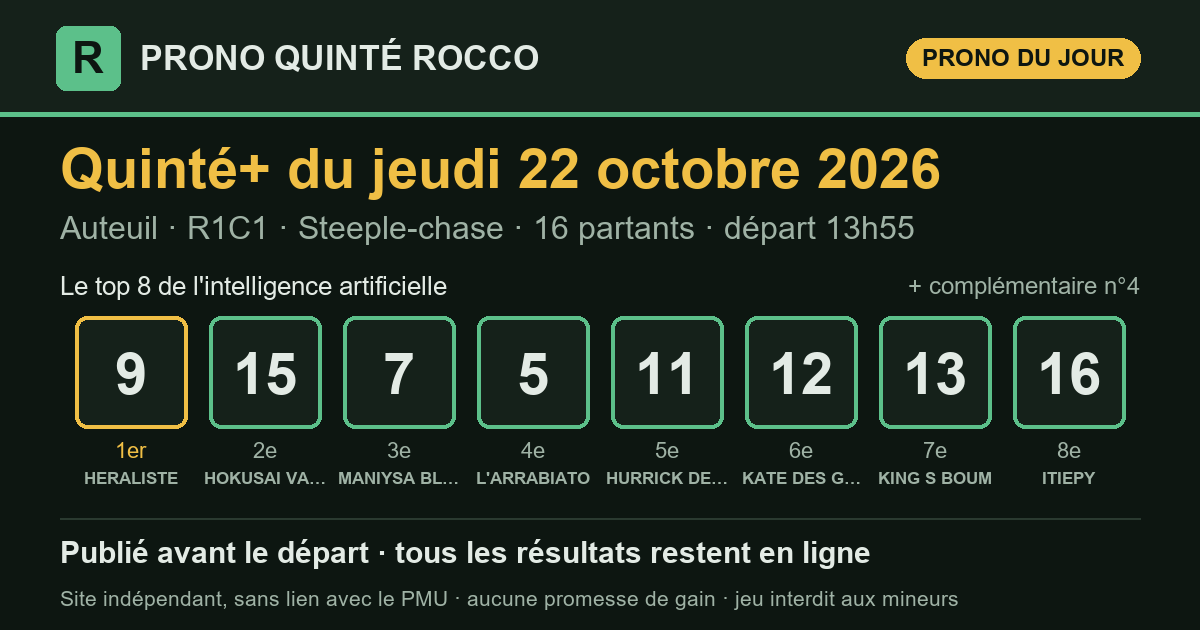
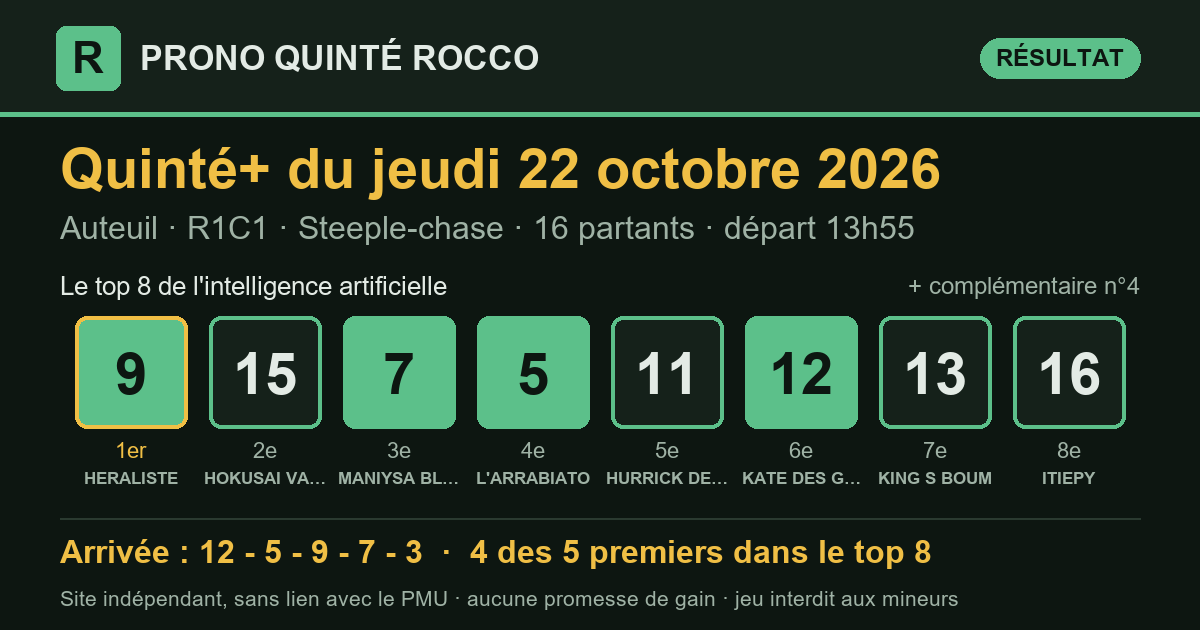
Prono Quinté+ 2026-10-22 Auteuil R1C1 — publié le 22/10/2026 14:13 (heure de Paris)

diff --git a/partants.html b/partants.html
@@ -3,7 +3,7 @@
 <head>
 <meta charset="utf-8">
 <meta name="viewport" content="width=device-width, initial-scale=1, viewport-fit=cover">
-<title>Partants du Quinté+ du jeudi 22 octobre 2026 — Prono Quinté Rocco</title>
+<title>Partants du Quinté+ du vendredi 23 octobre 2026 — Prono Quinté Rocco</title>
 <meta name="description" content="Les partants du prochain Quinté+ (programme officiel du PMU), avec le rang du prono IA et les liens vers les pronostics de la presse.">
 <link rel="canonical" href="https://prono-quinte-rocco.fr/partants.html">
 <link rel="stylesheet" href="style.css?v=3c55eb2c">
@@ -13,7 +13,7 @@
 <meta property="og:site_name" content="Prono Quinté Rocco">
 <meta property="og:locale" content="fr_FR">
 <meta property="og:type" content="website">
-<meta property="og:title" content="Partants du Quinté+ du jeudi 22 octobre 2026 — Prono Quinté Rocco">
+<meta property="og:title" content="Partants du Quinté+ du vendredi 23 octobre 2026 — Prono Quinté Rocco">
 <meta property="og:description" content="Les partants du prochain Quinté+ (programme officiel du PMU), avec le rang du prono IA et les liens vers les pronostics de la presse.">
 <meta property="og:url" content="https://prono-quinte-rocco.fr/partants.html">
 <meta name="twitter:card" content="summary">
@@ -29,100 +29,110 @@
   <p class="surtitre">Programme officiel du PMU</p>
   <h1>Les partants du prochain Quinté+</h1>
   <div class="fiche-course">
-    <p class="fiche-date">Jeudi 22 octobre 2026</p>
-    <div class="fiche-rc"><span class="pastille" title="Réunion 1">R1</span><span class="pastille" title="Course 1">C1</span><span class="fiche-nom">Prix Andre Adele</span></div>
-    <p class="meta">Auteuil · Obstacle · 3 600 m · 16 partants</p>
-    <p class="fiche-depart">Départ <b>13:55</b> <span>heure de Paris</span></p>
+    <p class="fiche-date">Vendredi 23 octobre 2026</p>
+    <div class="fiche-rc"><span class="pastille" title="Réunion 1">R1</span><span class="pastille" title="Course 4">C4</span><span class="fiche-nom">Prix Orionis</span></div>
+    <p class="meta">Vincennes · Trot_attele · 2 850 m · 18 partants</p>
+    <p class="fiche-depart">Départ <b>20:15</b> <span>heure de Paris</span></p>
   </div>
   <p class="surtitre">Les pronostics ailleurs sur le web</p>
-  <div class="liens"><a class="lien-ext" href="https://www.turfoo.fr/programmes-courses/261022/reunion1-auteuil/course1-prix-andre-adele/pronostics-presse/" rel="noopener" target="_blank"><b>Les pronostics de la presse →</b><span>sur Turfoo (site extérieur)</span></a><a class="lien-ext" href="https://www.geny.com/programme/2026-10-22" rel="noopener" target="_blank"><b>Partants et pronostics →</b><span>programme du jour sur Geny (site extérieur)</span></a></div>
+  <div class="liens"><a class="lien-ext" href="https://www.turfoo.fr/programmes-courses/261023/reunion1-vincennes/course4-prix-orionis/pronostics-presse/" rel="noopener" target="_blank"><b>Les pronostics de la presse →</b><span>sur Turfoo (site extérieur)</span></a><a class="lien-ext" href="https://www.geny.com/programme/2026-10-23" rel="noopener" target="_blank"><b>Partants et pronostics →</b><span>programme du jour sur Geny (site extérieur)</span></a></div>
   <div class="liste-boite"><table class="liste-partants">
     <thead><tr><th>N°</th><th>Cheval</th><th class="cote"><span class="long">Cote du matin</span><span class="court">Cote</span></th>
     <th class="ia"><span class="long">Prono IA</span><span class="court">IA</span></th></tr></thead>
     <tbody><tr>
   <td><span class="tapis petit">1</span></td>
-  <td><span class="cheval">KING PINEAU</span><span class="sous">D.THOMAS · G.JUILLET</span></td>
-  <td class="cote num">19,0</td>
+  <td><span class="cheval">JARDYLAND</span><span class="sous">L. JUBLOT · L. JUBLOT</span></td>
+  <td class="cote num">—</td>
   <td class="ia">—</td>
 </tr><tr>
   <td><span class="tapis petit">2</span></td>
-  <td><span class="cheval">JUVAL</span><span class="sous">Q.DEFONTAINE · P.QUINTON (S)</span></td>
-  <td class="cote num">17,0</td>
+  <td><span class="cheval">GITANO JACK</span><span class="sous">F. NIVARD · G.M. BERNIER</span></td>
+  <td class="cote num">—</td>
   <td class="ia">—</td>
 </tr><tr>
   <td><span class="tapis petit">3</span></td>
-  <td><span class="cheval">KEASY STORM</span><span class="sous">B.LE CLERC · A.LE CLERC (S)</span></td>
-  <td class="cote num">29,0</td>
+  <td><span class="cheval">IROISE DE MADKER</span><span class="sous">F. LAGADEUC · CH.A. MALLET</span></td>
+  <td class="cote num">—</td>
   <td class="ia">—</td>
 </tr><tr>
   <td><span class="tapis petit">4</span></td>
-  <td><span class="cheval">LAKADAME</span><span class="sous">THO .JOURNIAC · J.DELAUNAY (S)</span></td>
-  <td class="cote num">14,0</td>
-  <td class="ia"><span class="etat place">compl.</span></td>
+  <td><span class="cheval">GENERAL DE CONNEE</span><span class="sous">D. THOMAIN · CH.A. MALLET</span></td>
+  <td class="cote num">—</td>
+  <td class="ia">—</td>
 </tr><tr>
   <td><span class="tapis petit">5</span></td>
-  <td><span class="cheval">L&#x27;ARRABIATO</span><span class="sous">G.RICHARD · CHAILLE-CHAILLE &amp; PAMART</span></td>
-  <td class="cote num">8,2</td>
-  <td class="ia"><span class="etat place">4<sup>e</sup></span></td>
+  <td><span class="cheval">IN RACE LORRAINE</span><span class="sous">G.A. POU POU · G.A. POU POU</span></td>
+  <td class="cote num">—</td>
+  <td class="ia">—</td>
 </tr><tr>
   <td><span class="tapis petit">6</span></td>
-  <td><span class="cheval">DREAM DU LEMO</span><span class="sous">T.BEAURAIN · F.FOUCHER</span></td>
-  <td class="cote num">16,0</td>
+  <td><span class="cheval">JOKER GEMA</span><span class="sous">B. ROCHARD · M. SASSIER</span></td>
+  <td class="cote num">—</td>
   <td class="ia">—</td>
 </tr><tr>
   <td><span class="tapis petit">7</span></td>
-  <td><span class="cheval">MANIYSA BLEUE</span><span class="sous">K.NABET · M.PITART</span></td>
-  <td class="cote num">8,9</td>
-  <td class="ia"><span class="etat place">3<sup>e</sup></span></td>
+  <td><span class="cheval">IENISSE DE BARBRAY</span><span class="sous">E. RAFFIN · CH.A. MALLET</span></td>
+  <td class="cote num">—</td>
+  <td class="ia">—</td>
 </tr><tr>
   <td><span class="tapis petit">8</span></td>
-  <td><span class="cheval">ELIAN</span><span class="sous">G.RE · CHAILLE-CHAILLE &amp; PAMART</span></td>
-  <td class="cote num">20,0</td>
+  <td><span class="cheval">HALFAN SPEED</span><span class="sous">P.PH. PLOQUIN · P. LELIEVRE</span></td>
+  <td class="cote num">—</td>
   <td class="ia">—</td>
 </tr><tr>
   <td><span class="tapis petit">9</span></td>
-  <td><span class="cheval">HERALISTE</span><span class="sous">G.MASURE · CHAILLE-CHAILLE &amp; PAMART</span></td>
-  <td class="cote num">5,5</td>
-  <td class="ia"><span class="etat place">1<sup>er</sup></span></td>
+  <td><span class="cheval">JEWEL DE LA COTE</span><span class="sous">G. GELORMINI · S. GUARATO</span></td>
+  <td class="cote num">—</td>
+  <td class="ia">—</td>
 </tr><tr>
   <td><span class="tapis petit">10</span></td>
-  <td><span class="cheval">TUTTI BELLA</span><span class="sous">G.MEUNIER · MME I.PACAULT</span></td>
-  <td class="cote num">53,0</td>
+  <td><span class="cheval">JADOU DU LUPIN</span><span class="sous">A. WIELS · J.P. MARMION</span></td>
+  <td class="cote num">—</td>
   <td class="ia">—</td>
 </tr><tr>
   <td><span class="tapis petit">11</span></td>
-  <td><span class="cheval">HURRICK DES OBEAUX</span><span class="sous">O.JOUIN · N.DEVILDER</span></td>
-  <td class="cote num">13,0</td>
-  <td class="ia"><span class="etat place">5<sup>e</sup></span></td>
+  <td><span class="cheval">JAZZ DE PADD</span><span class="sous">A. ABRIVARD · M. ABRIVARD</span></td>
+  <td class="cote num">—</td>
+  <td class="ia">—</td>
 </tr><tr>
   <td><span class="tapis petit">12</span></td>
-  <td><span class="cheval">KATE DES GENIEVRES</span><span class="sous">L.BRECHET · Y.FOUIN (S)</span></td>
-  <td class="cote num">16,0</td>
-  <td class="ia"><span class="etat place">6<sup>e</sup></span></td>
+  <td><span class="cheval">IN LOVE REGLISSE</span><span class="sous">E. DE JESUS · D. DE JESUS REIS</span></td>
+  <td class="cote num">—</td>
+  <td class="ia">—</td>
 </tr><tr>
   <td><span class="tapis petit">13</span></td>
-  <td><span class="cheval">KING S BOUM</span><span class="sous">T.CHEVILLARD · F.FOUCHER</span></td>
-  <td class="cote num">21,0</td>
-  <td class="ia"><span class="etat place">7<sup>e</sup></span></td>
+  <td><span class="cheval">JIBI DU FRUITIER</span><span class="sous">M. MOTTIER · CH.M. BRUNEAU</span></td>
+  <td class="cote num">—</td>
+  <td class="ia">—</td>
 </tr><tr>
   <td><span class="tapis petit">14</span></td>
-  <td><span class="cheval">FILIPPINO</span><span class="sous">J.PHELIPPE · GAB.LEENDERS (S)</span></td>
-  <td class="cote num">14,0</td>
+  <td><span class="cheval">IOUPY TOLLEVILLE</span><span class="sous">F. OUVRIE · E. SZIRMAY</span></td>
+  <td class="cote num">—</td>
   <td class="ia">—</td>
 </tr><tr>
   <td><span class="tapis petit">15</span></td>
-  <td><span class="cheval">HOKUSAI VALLIS</span><span class="sous">F.GILES · H.MERIENNE (S)</span></td>
-  <td class="cote num">9,4</td>
-  <td class="ia"><span class="etat place">2<sup>e</sup></span></td>
+  <td><span class="cheval">JUST DU CHATELET</span><span class="sous">D. BONNE · A. RANDON</span></td>
+  <td class="cote num">—</td>
+  <td class="ia">—</td>
 </tr><tr>
   <td><span class="tapis petit">16</span></td>
-  <td><span class="cheval">ITIEPY</span><span class="sous">M.CHAILLOLEAU · AS.PACAULT (S)</span></td>
-  <td class="cote num">16,0</td>
-  <td class="ia"><span class="etat place">8<sup>e</sup></span></td>
+  <td><span class="cheval">HINDEN</span><span class="sous">A. BARRIER · P.J. CORDEAU</span></td>
+  <td class="cote num">—</td>
+  <td class="ia">—</td>
+</tr><tr>
+  <td><span class="tapis petit">17</span></td>
+  <td><span class="cheval">IVOIRE DAIRPET</span><span class="sous">CEDRIC TERRY · J.F. POPOT</span></td>
+  <td class="cote num">—</td>
+  <td class="ia">—</td>
+</tr><tr>
+  <td><span class="tapis petit">18</span></td>
+  <td><span class="cheval">JEZABELLE BIE</span><span class="sous">M. IZZO · M. IZZO</span></td>
+  <td class="cote num">—</td>
+  <td class="ia">—</td>
 </tr></tbody>
   </table></div>
-  <p class="meta">Le rang du prono IA est celui publié sur ce site. Sous chaque cheval : jockey · entraîneur. Partants et cotes : programme
-  officiel du PMU, lu le 22/10 à 10:40 (heure de Paris). NP = non-partant.</p>
+  <p class="meta">Le prono IA de cette course sera publié le matin de la course, avant le départ. Sous chaque cheval : driver · entraîneur. Partants et cotes : programme
+  officiel du PMU, lu le 22/10 à 14:13 (heure de Paris). NP = non-partant.</p>
 </section>
 </main>
 <footer class="pied">

diff --git a/index.html b/index.html
@@ -16,7 +16,7 @@
 <meta property="og:title" content="Pronostic Quinté+ du jeudi 22 octobre 2026 — Prono Quinté Rocco">
 <meta property="og:description" content="Le pronostic du Quinté+ par intelligence artificielle, publié avant le départ, avec tous les résultats et le rendement réel.">
 <meta property="og:url" content="https://prono-quinte-rocco.fr/">
-<meta property="og:image" content="https://prono-quinte-rocco.fr/partage/2026-10-22.png?v=9750befb">
+<meta property="og:image" content="https://prono-quinte-rocco.fr/partage/2026-10-22.png?v=4a9a731e">
 <meta property="og:image:type" content="image/png">
 <meta property="og:image:width" content="1200">
 <meta property="og:image:height" content="630">
@@ -31,15 +31,15 @@
 </header>
 <main>
 <section class="une" aria-labelledby="t-jour">
-  <p class="surtitre">Quinté+ du jour</p>
+  <p class="surtitre">Dernier Quinté+</p>
   <h1 id="t-jour">Le prono du Quinté+, résultats compris</h1>
   <p class="chapo">Chaque matin, une intelligence artificielle classe les partants du
   Quinté+. Le classement est publié avant le départ, puis comparé à l'arrivée
   officielle. Tous les résultats restent en ligne, les bons comme les mauvais.</p>
   <article class="carte-course">
-  <div class="tete"><h2>Jeudi 22 octobre 2026</h2><span class="etat attente">arrivée en attente</span></div>
+  <div class="tete"><h2>Jeudi 22 octobre 2026</h2><span class="etat place">4 des 5 premiers dans le top 8</span></div>
   <p class="meta">Auteuil · <strong>R1C1</strong> · Steeple-chase · 16 partants · lisibilité <span class="note" aria-label="note 2 sur 5"><i class="on"></i><i class="on"></i><i class=""></i><i class=""></i><i class=""></i></span> 2/5</p>
-  <ol class="partants" aria-label="Classement du prono"><li><span class="rang">1<sup>er</sup></span><span class="tapis ">9</span><span class="nom">HERALISTE</span></li><li><span class="rang">2<sup>e</sup></span><span class="tapis ">15</span><span class="nom">HOKUSAI VALLIS</span></li><li><span class="rang">3<sup>e</sup></span><span class="tapis ">7</span><span class="nom">MANIYSA BLEUE</span></li><li><span class="rang">4<sup>e</sup></span><span class="tapis ">5</span><span class="nom">L&#x27;ARRABIATO</span></li><li><span class="rang">5<sup>e</sup></span><span class="tapis ">11</span><span class="nom">HURRICK DES OBEAUX</span></li><li><span class="rang">6<sup>e</sup></span><span class="tapis ">12</span><span class="nom">KATE DES GENIEVRES</span></li><li><span class="rang">7<sup>e</sup></span><span class="tapis ">13</span><span class="nom">KING S BOUM</span></li><li><span class="rang">8<sup>e</sup></span><span class="tapis ">16</span><span class="nom">ITIEPY</span></li><li><span class="rang">compl.</span><span class="tapis creux">4</span><span class="nom">LAKADAME</span></li></ol>
+  <ol class="partants" aria-label="Classement du prono"><li><span class="rang">1<sup>er</sup></span><span class="tapis plein">9</span><span class="nom">HERALISTE</span></li><li><span class="rang">2<sup>e</sup></span><span class="tapis ">15</span><span class="nom">HOKUSAI VALLIS</span></li><li><span class="rang">3<sup>e</sup></span><span class="tapis plein">7</span><span class="nom">MANIYSA BLEUE</span></li><li><span class="rang">4<sup>e</sup></span><span class="tapis plein">5</span><span class="nom">L&#x27;ARRABIATO</span></li><li><span class="rang">5<sup>e</sup></span><span class="tapis ">11</span><span class="nom">HURRICK DES OBEAUX</span></li><li><span class="rang">6<sup>e</sup></span><span class="tapis plein">12</span><span class="nom">KATE DES GENIEVRES</span></li><li><span class="rang">7<sup>e</sup></span><span class="tapis ">13</span><span class="nom">KING S BOUM</span></li><li><span class="rang">8<sup>e</sup></span><span class="tapis ">16</span><span class="nom">ITIEPY</span></li><li><span class="rang">compl.</span><span class="tapis creux">4</span><span class="nom">LAKADAME</span></li></ol>
   <div class="pied-carte"><span>Analysé le 22/10 à 10:37 · en ligne le 22/10 à 10:40 · départ à 13:55 (heure de Paris)</span><span><a href="quinte/2026-10-22.html">Détail de la course</a></span></div>
 </article>
   <div class="legende"><span><span class="tapis plein petit">4</span> numéro dans les 5 premiers</span>
@@ -62,7 +62,7 @@
 </section>
 <section class="bilan" aria-labelledby="t-bilan">
   <h2 id="t-bilan">Le bilan depuis le 8 septembre 2026</h2>
-  <div class="tableau chiffres"><div class="case"><span class="gros ">75 %</span><span class="lib">des arrivants trouvés dans le top 8</span><span class="ref">un top 8 tiré au hasard : 51 %</span></div><div class="case"><span class="gros ">86 %</span><span class="lib">des gagnants présents dans le top 8</span><span class="ref"></span></div><div class="case"><span class="gros ">51 %</span><span class="lib">1er du prono placé</span><span class="ref">sur 43 Quintés</span></div><div class="case"><span class="gros perte">0,93 €</span><span class="lib">rendus pour 1 € joué placé sur le 1er</span><span class="ref">rapports officiels PMU</span></div><div class="case"><span class="gros perte">0,50 €</span><span class="lib">rendus pour 1 € joué en Quinté+ combiné top 8</span><span class="ref">56 combinaisons, rapports PMU.fr, sur 43 Quintés</span></div></div>
+  <div class="tableau chiffres"><div class="case"><span class="gros ">75 %</span><span class="lib">des arrivants trouvés dans le top 8</span><span class="ref">un top 8 tiré au hasard : 51 %</span></div><div class="case"><span class="gros ">86 %</span><span class="lib">des gagnants présents dans le top 8</span><span class="ref"></span></div><div class="case"><span class="gros ">51 %</span><span class="lib">1er du prono placé</span><span class="ref">sur 43 Quintés</span></div><div class="case"><span class="gros perte">0,93 €</span><span class="lib">rendus pour 1 € joué placé sur le 1er</span><span class="ref">rapports officiels PMU</span></div><div class="case"><span class="gros perte">0,51 €</span><span class="lib">rendus pour 1 € joué en Quinté+ combiné top 8</span><span class="ref">56 combinaisons, rapports PMU.fr, sur 44 Quintés</span></div></div>
   <p class="avertissement">Moins de 1 € rendu pour 1 € joué : suivre ce prono à la lettre fait <strong>perdre de l'argent</strong> sur cette période. Il sert à analyser une course, pas à promettre un gain.</p>
 </section>
 </main>

diff --git a/quinte/2026-10-22.html b/quinte/2026-10-22.html
@@ -16,7 +16,7 @@
 <meta property="og:title" content="Pronostic Quinté+ du jeudi 22 octobre 2026 à Auteuil — Prono Quinté Rocco">
 <meta property="og:description" content="Prono Quinté+ du jeudi 22 octobre 2026 (Auteuil) : top 8, arrivée officielle et rapports PMU.fr.">
 <meta property="og:url" content="https://prono-quinte-rocco.fr/quinte/2026-10-22.html">
-<meta property="og:image" content="https://prono-quinte-rocco.fr/partage/2026-10-22.png?v=9750befb">
+<meta property="og:image" content="https://prono-quinte-rocco.fr/partage/2026-10-22.png?v=4a9a731e">
 <meta property="og:image:type" content="image/png">
 <meta property="og:image:width" content="1200">
 <meta property="og:image:height" content="630">
@@ -35,11 +35,19 @@
   <h1>Pronostic Quinté+ du jeudi 22 octobre 2026</h1>
   <p class="chapo">Auteuil · R1C1 · Steeple-chase · 16 partants</p>
   <article class="carte-course">
-  <div class="tete"><h2>Le prono : top 8 et complémentaire</h2><span class="etat attente">arrivée en attente</span></div>
+  <div class="tete"><h2>Le prono : top 8 et complémentaire</h2><span class="etat place">4 des 5 premiers dans le top 8</span></div>
   <p class="meta">Auteuil · <strong>R1C1</strong> · Steeple-chase · 16 partants · lisibilité <span class="note" aria-label="note 2 sur 5"><i class="on"></i><i class="on"></i><i class=""></i><i class=""></i><i class=""></i></span> 2/5</p>
-  <ol class="partants" aria-label="Classement du prono"><li><span class="rang">1<sup>er</sup></span><span class="tapis ">9</span><span class="nom">HERALISTE</span></li><li><span class="rang">2<sup>e</sup></span><span class="tapis ">15</span><span class="nom">HOKUSAI VALLIS</span></li><li><span class="rang">3<sup>e</sup></span><span class="tapis ">7</span><span class="nom">MANIYSA BLEUE</span></li><li><span class="rang">4<sup>e</sup></span><span class="tapis ">5</span><span class="nom">L&#x27;ARRABIATO</span></li><li><span class="rang">5<sup>e</sup></span><span class="tapis ">11</span><span class="nom">HURRICK DES OBEAUX</span></li><li><span class="rang">6<sup>e</sup></span><span class="tapis ">12</span><span class="nom">KATE DES GENIEVRES</span></li><li><span class="rang">7<sup>e</sup></span><span class="tapis ">13</span><span class="nom">KING S BOUM</span></li><li><span class="rang">8<sup>e</sup></span><span class="tapis ">16</span><span class="nom">ITIEPY</span></li><li><span class="rang">compl.</span><span class="tapis creux">4</span><span class="nom">LAKADAME</span></li></ol>
+  <ol class="partants" aria-label="Classement du prono"><li><span class="rang">1<sup>er</sup></span><span class="tapis plein">9</span><span class="nom">HERALISTE</span></li><li><span class="rang">2<sup>e</sup></span><span class="tapis ">15</span><span class="nom">HOKUSAI VALLIS</span></li><li><span class="rang">3<sup>e</sup></span><span class="tapis plein">7</span><span class="nom">MANIYSA BLEUE</span></li><li><span class="rang">4<sup>e</sup></span><span class="tapis plein">5</span><span class="nom">L&#x27;ARRABIATO</span></li><li><span class="rang">5<sup>e</sup></span><span class="tapis ">11</span><span class="nom">HURRICK DES OBEAUX</span></li><li><span class="rang">6<sup>e</sup></span><span class="tapis plein">12</span><span class="nom">KATE DES GENIEVRES</span></li><li><span class="rang">7<sup>e</sup></span><span class="tapis ">13</span><span class="nom">KING S BOUM</span></li><li><span class="rang">8<sup>e</sup></span><span class="tapis ">16</span><span class="nom">ITIEPY</span></li><li><span class="rang">compl.</span><span class="tapis creux">4</span><span class="nom">LAKADAME</span></li></ol>
   <div class="pied-carte"><span>Analysé le 22/10 à 10:37 · en ligne le 22/10 à 10:40 · départ à 13:55 (heure de Paris)</span><span></span></div>
 </article>
+<section class="carte-course" aria-labelledby="t-arr">
+  <div class="tete"><h2 id="t-arr">Arrivée officielle</h2></div>
+  <div class="rangee"><span class="tapis plein" title="1er">12</span><span class="tapis plein" title="2e">5</span><span class="tapis plein" title="3e">9</span><span class="tapis plein" title="4e">7</span><span class="tapis creux" title="5e">3</span></div>
+  <div class="deux">
+    <div><h3>Ce qu'aurait rendu le prono</h3><dl class="kv"><dt>1 € placé sur le 1er (n°9)</dt><dd>rapport manquant</dd><dt>1 € gagnant sur le 1er</dt><dd>rapport manquant</dd><dt>Quinté+ combiné top 8 (mise 112 €)</dt><dd>81,20 €</dd><dt>dont</dt><dd>Bonus 4sur5 × 4, Bonus 3 × 6</dd></dl></div>
+    <div><h3>Rapports officiels</h3><dl class="kv"><dt>e-Quinté+ Désordre (2 €)</dt><dd>929,80 €</dd><dt>e-Bonus 4sur5 (2 €)</dt><dd>9,20 €</dd><dt>e-Bonus 3 (2 €)</dt><dd>7,40 €</dd></dl></div>
+  </div>
+</section>
 </section>
 </main>
 <footer class="pied">

diff --git a/resultats.html b/resultats.html
@@ -39,8 +39,8 @@
     <tbody><tr>
   <td class="c-date"><a href="quinte/2026-10-22.html">22/10</a></td>
   <td class="c-course">Auteuil<br><span class="meta">R1C1 · Steeple-chase</span></td>
-  <td data-label="Top 8 du prono"><div class="rangee"><span class="tapis petit">9</span><span class="tapis petit">15</span><span class="tapis petit">7</span><span class="tapis petit">5</span><span class="tapis petit">11</span><span class="tapis petit">12</span><span class="tapis petit">13</span><span class="tapis petit">16</span></div></td><td data-label="Arrivée"><span class="etat attente">en attente</span></td>
-  <td class="num" data-label="Trouvés">—</td><td data-label="1er du prono"><span class="etat attente">—</span></td><td class="mont" data-label="Quinté+ top 8 (mise 112 €)">—</td>
+  <td data-label="Top 8 du prono"><div class="rangee"><span class="tapis plein petit">9</span><span class="tapis petit">15</span><span class="tapis plein petit">7</span><span class="tapis plein petit">5</span><span class="tapis petit">11</span><span class="tapis plein petit">12</span><span class="tapis petit">13</span><span class="tapis petit">16</span></div></td><td data-label="Arrivée"><div class="rangee"><span class="tapis plein petit" title="1er">12</span><span class="tapis plein petit" title="2e">5</span><span class="tapis plein petit" title="3e">9</span><span class="tapis plein petit" title="4e">7</span><span class="tapis creux petit" title="5e">3</span></div></td>
+  <td class="num" data-label="Trouvés">4/5</td><td data-label="1er du prono"><span class="etat place">placé</span></td><td class="mont perte" data-label="Quinté+ top 8 (mise 112 €)">81,20 €</td>
 </tr><tr>
   <td class="c-date"><a href="quinte/2026-10-21.html">21/10</a></td>
   <td class="c-course">Toulouse<br><span class="meta">R1C1 · Attelé</span></td>
@@ -261,7 +261,7 @@
 </section>
 <section class="bilan" aria-labelledby="t-bilan">
   <h2 id="t-bilan">Le bilan depuis le 8 septembre 2026</h2>
-  <div class="tableau chiffres"><div class="case"><span class="gros ">75 %</span><span class="lib">des arrivants trouvés dans le top 8</span><span class="ref">un top 8 tiré au hasard : 51 %</span></div><div class="case"><span class="gros ">86 %</span><span class="lib">des gagnants présents dans le top 8</span><span class="ref"></span></div><div class="case"><span class="gros ">51 %</span><span class="lib">1er du prono placé</span><span class="ref">sur 43 Quintés</span></div><div class="case"><span class="gros perte">0,93 €</span><span class="lib">rendus pour 1 € joué placé sur le 1er</span><span class="ref">rapports officiels PMU</span></div><div class="case"><span class="gros perte">0,50 €</span><span class="lib">rendus pour 1 € joué en Quinté+ combiné top 8</span><span class="ref">56 combinaisons, rapports PMU.fr, sur 43 Quintés</span></div></div>
+  <div class="tableau chiffres"><div class="case"><span class="gros ">75 %</span><span class="lib">des arrivants trouvés dans le top 8</span><span class="ref">un top 8 tiré au hasard : 51 %</span></div><div class="case"><span class="gros ">86 %</span><span class="lib">des gagnants présents dans le top 8</span><span class="ref"></span></div><div class="case"><span class="gros ">51 %</span><span class="lib">1er du prono placé</span><span class="ref">sur 43 Quintés</span></div><div class="case"><span class="gros perte">0,93 €</span><span class="lib">rendus pour 1 € joué placé sur le 1er</span><span class="ref">rapports officiels PMU</span></div><div class="case"><span class="gros perte">0,51 €</span><span class="lib">rendus pour 1 € joué en Quinté+ combiné top 8</span><span class="ref">56 combinaisons, rapports PMU.fr, sur 44 Quintés</span></div></div>
   <p class="avertissement">Moins de 1 € rendu pour 1 € joué : suivre ce prono à la lettre fait <strong>perdre de l'argent</strong> sur cette période. Il sert à analyser une course, pas à promettre un gain.</p>
 </section>
 </main>
